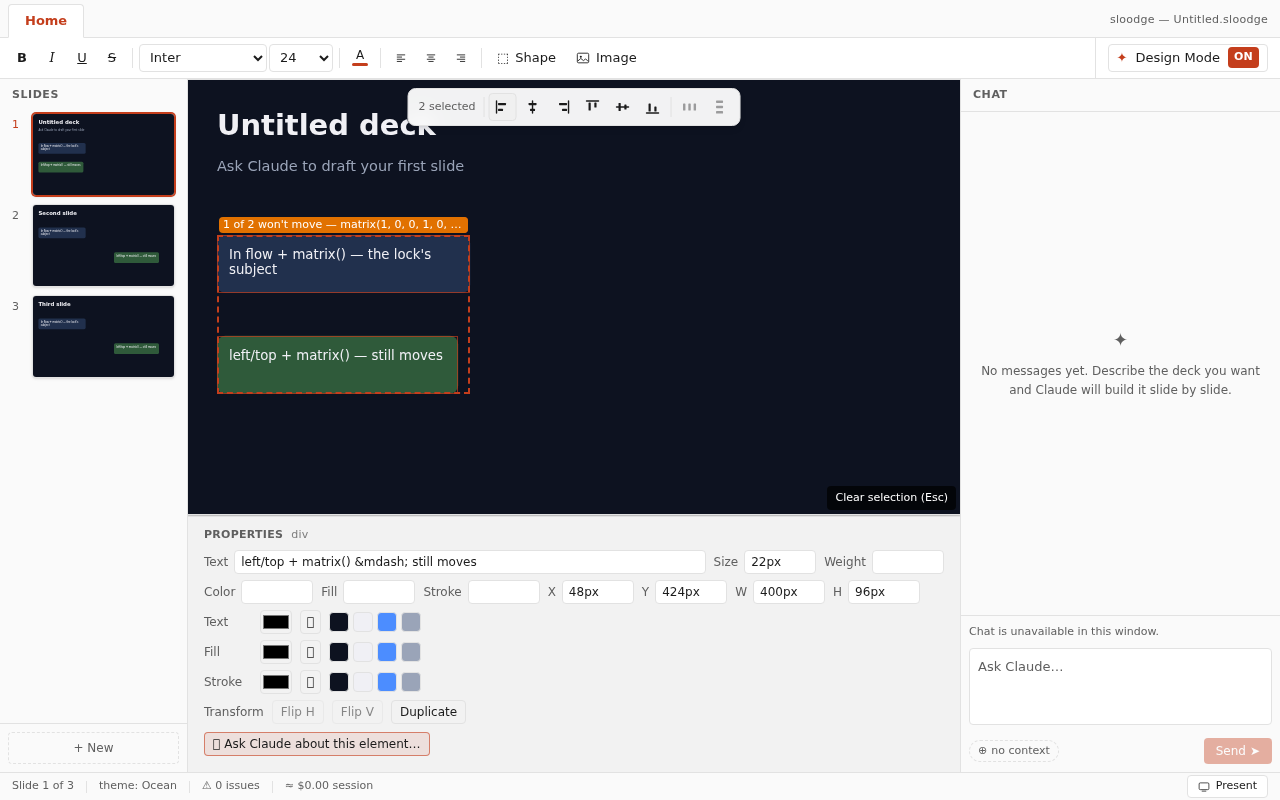
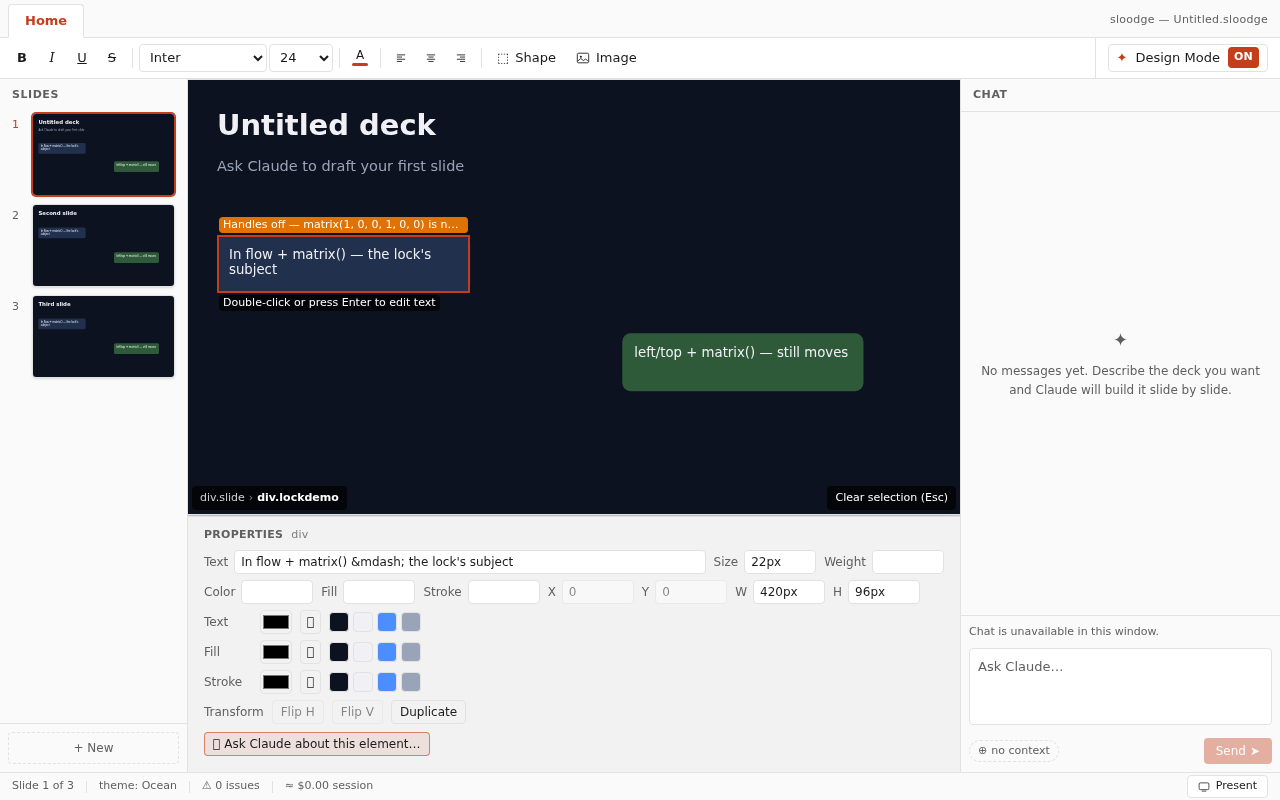
doc: re-export the still from the moment it claims; roadmap on the SVG rule
The still had not moved since round 4 — it was the last frame of the
clip, showing the movable sibling with X and Y live, under a body
sentence claiming it showed them greyed. It is now taken at the moment
the locked element is selected: `Handles off — matrix(1, 0, 0, 1, 0, 0)`
in the badge, X and Y greyed beside a live W and H, Flip H/V greyed.

The roadmap row now states the SVG rule and records the milestone-wide
gap it does not close: the whole M3.6 transform stack reads and writes
the style `transform` only, so an SVG `transform=` attribute is invisible
to the rotation handle, the flip, the duplicate nudge and this lock alike.

Claude-Session: https://claude.ai/code/session_01LDy4N258a6ZBfZEqXqZSJk

diff --git a/.claude/plans/init/80-roadmap.md b/.claude/plans/init/80-roadmap.md
@@ -56,7 +56,7 @@ Principles: every PR is incremental and digestible; titles prefixed `feat/fix/do
 Direct-manipulation depth so Design Mode reaches parity with a real slide editor.
 | PR | Title | Notes |
 |---|---|---|
-| M3.6 | `feat: transform controls (stretch/zoom handles, rotate, flip H/V, duplicate)` | Handles on the selection box; rotation via corner handle with angle snap (0/45/90); flip = CSS transform written back to source; duplicate = Ctrl/⌘+D cloning the element subtree with fresh `data-sl-id`s. **Shipped in two PRs.** #27 landed the rotation handle, Flip H/V, `Ctrl/⌘+D` duplicate (fresh author `id`s and `data-sl-id`s through the whole clone, with intra-clone `href`/`url(#…)`/`for`/`aria-*` references repointed) and the rotated selection box; the stretch (edge) and zoom (corner, `Shift` = aspect) handles are M3.5's. The second PR closes what the row implied but #27 did not do, and records four decisions that differ from it. **Resize under rotation** works in the element's own axes: the pointer delta is turned into the box's frame, the axis-aligned resize runs there, and the box is re-placed so the anchored edge or corner stays fixed *on screen*; the grips' cursors turn with the box. **Snapping** is PowerPoint's model rather than #27's always-45° grid (which made a 30° tilt unreachable without a modifier): free by default, magnetic at multiples of 45° within 4°, `Shift` forces 15°, `Alt` bypasses the magnet; every commit is a whole degree read back from the source, so repeated drags cannot drift. **Composing with an author transform is loud, not lossy**: `inspectTransform` decomposes only `translate rotate scale` (single-axis aliases folded), each once, in canonical relative order; a `matrix()`, `skew()`, non-canonical order, repeated function or non-`deg` angle is *opaque* — the overlay hides the grips and the rotation handle, shows the reason in a badge, and the panel's Flip buttons carry it as a disabled tooltip. Move stays available on an element positioned with `left`/`top` (a drag there never touches the transform — `translateZ(0)`, the compositing idiom, must not make an element unmovable) and on an SVG child (which moves by `x`/`y` attributes); it is refused only for an in-flow HTML element, which moves *through* the transform. That refusal is the `refused` arm of **`moveChannel` in `buildFieldOps`**, the function that writes the bytes, not a check at each caller: enforced at the overlay alone it was found missing at the next entry point three rounds running (the group anchor, then align/distribute, then a source edit landing mid-drag), and enforced at `buildDragPatch` it was still missing from the panel's X/Y inputs, which reach `buildFieldOps` without passing through the drag. One `moveChannel` now answers "which channel does an X/Y edit use, and may it be written" for the reader, the writer and the message alike, so the panel field shown is by construction the field an edit would write, and the overlay's badge cannot describe a different rule from the one applied. Round 2's opaque-translate write path is subsumed by this and deleted rather than left unreachable. The panel's X/Y and the drag share one translate writer with the handles (`inspectTransform`/`composeTransform`), so a `translateX()` folds to one `translate()` rather than gaining a second and going opaque on its first drag. This reverses §5.3's "reorder to canonical and append unknowns verbatim", which kept the bytes but moved the element. A new translate is now *prepended* (`translate() rotate()`), the parent-space position, fixing an M3.3/M3.5 move that walked along a rotated element's own axis. **Flip** mirrors within the element's own frame (`scale` innermost, DrawingML's `flipH`-inside-`rot`): the tilt is kept, and text mirrors with the box — a notice says so, since CSS cannot flip a container and keep its glyphs readable. **Duplicate** folds the 16px nudge into a px translate, prepends a parent-space translate to an opaque one, and lands a non-px-translated clone (`-50%`, `1em`) in place with a notice naming the translate rather than writing `-34px` for `-50%`. The clone is freshened from a whole-document parse, not a fragment parse of its own bytes — a `<td>` outside a `<table>` does not survive the latter, which is how #27 duplicated a cell to two `id="a"` cells. |
+| M3.6 | `feat: transform controls (stretch/zoom handles, rotate, flip H/V, duplicate)` | Handles on the selection box; rotation via corner handle with angle snap (0/45/90); flip = CSS transform written back to source; duplicate = Ctrl/⌘+D cloning the element subtree with fresh `data-sl-id`s. **Shipped in two PRs.** #27 landed the rotation handle, Flip H/V, `Ctrl/⌘+D` duplicate (fresh author `id`s and `data-sl-id`s through the whole clone, with intra-clone `href`/`url(#…)`/`for`/`aria-*` references repointed) and the rotated selection box; the stretch (edge) and zoom (corner, `Shift` = aspect) handles are M3.5's. The second PR closes what the row implied but #27 did not do, and records four decisions that differ from it. **Resize under rotation** works in the element's own axes: the pointer delta is turned into the box's frame, the axis-aligned resize runs there, and the box is re-placed so the anchored edge or corner stays fixed *on screen*; the grips' cursors turn with the box. **Snapping** is PowerPoint's model rather than #27's always-45° grid (which made a 30° tilt unreachable without a modifier): free by default, magnetic at multiples of 45° within 4°, `Shift` forces 15°, `Alt` bypasses the magnet; every commit is a whole degree read back from the source, so repeated drags cannot drift. **Composing with an author transform is loud, not lossy**: `inspectTransform` decomposes only `translate rotate scale` (single-axis aliases folded), each once, in canonical relative order; a `matrix()`, `skew()`, non-canonical order, repeated function or non-`deg` angle is *opaque* — the overlay hides the grips and the rotation handle, shows the reason in a badge, and the panel's Flip buttons carry it as a disabled tooltip. Move stays available on an element positioned with `left`/`top` (a drag there never touches the transform — `translateZ(0)`, the compositing idiom, must not make an element unmovable), and on anything whose transform decomposes, by writing a **leading** `translate()` that CSS applies last, in the parent's frame. An SVG child is not exempt from the rule as an earlier revision assumed: its `x`/`y` are geometry *inside* its own user space, so a screen-space delta written there under `rotate(30deg)` moves it ~34.6px right and ~20px down — it takes the `x`/`y` channel only when the transform leaves its axes parent-aligned, and the same leading-translate channel otherwise. Move is refused only where the transform cannot be decomposed at all, so neither channel can be shown safe. **Known gap:** the whole M3.6 transform stack reads and writes the *style* `transform` only, so an SVG element carrying the legacy `transform="rotate(30)"` **attribute** looks untransformed to the rotation handle, the flip, the duplicate nudge and this lock alike; closing that means teaching `readTransformShape`/`setStyleProp` the attribute form and is out of M3.6's scope. That refusal is the `refused` arm of **`moveChannel` in `buildFieldOps`**, the function that writes the bytes, not a check at each caller: enforced at the overlay alone it was found missing at the next entry point three rounds running (the group anchor, then align/distribute, then a source edit landing mid-drag), and enforced at `buildDragPatch` it was still missing from the panel's X/Y inputs, which reach `buildFieldOps` without passing through the drag. One `moveChannel` now answers "which channel does an X/Y edit use, and may it be written" for the reader, the writer and the message alike, so the panel field shown is by construction the field an edit would write, and the overlay's badge cannot describe a different rule from the one applied. Round 2's opaque-translate write path is subsumed by this and deleted rather than left unreachable. The panel's X/Y and the drag share one translate writer with the handles (`inspectTransform`/`composeTransform`), so a `translateX()` folds to one `translate()` rather than gaining a second and going opaque on its first drag. This reverses §5.3's "reorder to canonical and append unknowns verbatim", which kept the bytes but moved the element. A new translate is now *prepended* (`translate() rotate()`), the parent-space position, fixing an M3.3/M3.5 move that walked along a rotated element's own axis. **Flip** mirrors within the element's own frame (`scale` innermost, DrawingML's `flipH`-inside-`rot`): the tilt is kept, and text mirrors with the box — a notice says so, since CSS cannot flip a container and keep its glyphs readable. **Duplicate** folds the 16px nudge into a px translate, prepends a parent-space translate to an opaque one, and lands a non-px-translated clone (`-50%`, `1em`) in place with a notice naming the translate rather than writing `-34px` for `-50%`. The clone is freshened from a whole-document parse, not a fragment parse of its own bytes — a `<td>` outside a `<table>` does not survive the latter, which is how #27 duplicated a cell to two `id="a"` cells. |
 | M3.7 | `feat: multi-select + align & distribute` | Shift-click / marquee multi-select; align left/center/right/top/middle/bottom; distribute horizontal/vertical; PowerPoint-style smart guides while dragging |
 | M3.8 | `feat: color controls + eyedropper` | Fill/stroke/text color swatches with theme-token quick row; eyedropper via the `EyeDropper` API (Chromium ships it) sampling anywhere in the app window; writes hex back to source |
 | M3.9 | `feat: animation controls (duration, easing/bezier editor, transition presets)` | Per-element panel: duration/delay sliders, easing dropdown (ease/linear/ease-in-out/spring) + draggable cubic-bezier curve editor; one-click entrance presets (fade, slide-in, scale) written as CSS keyframes honoring the slide contract |
